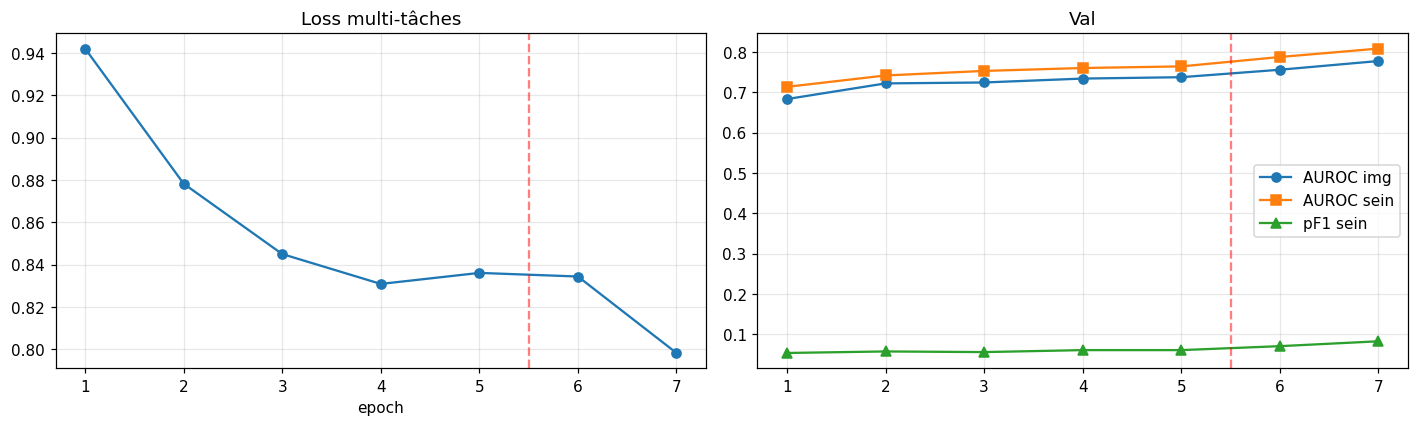
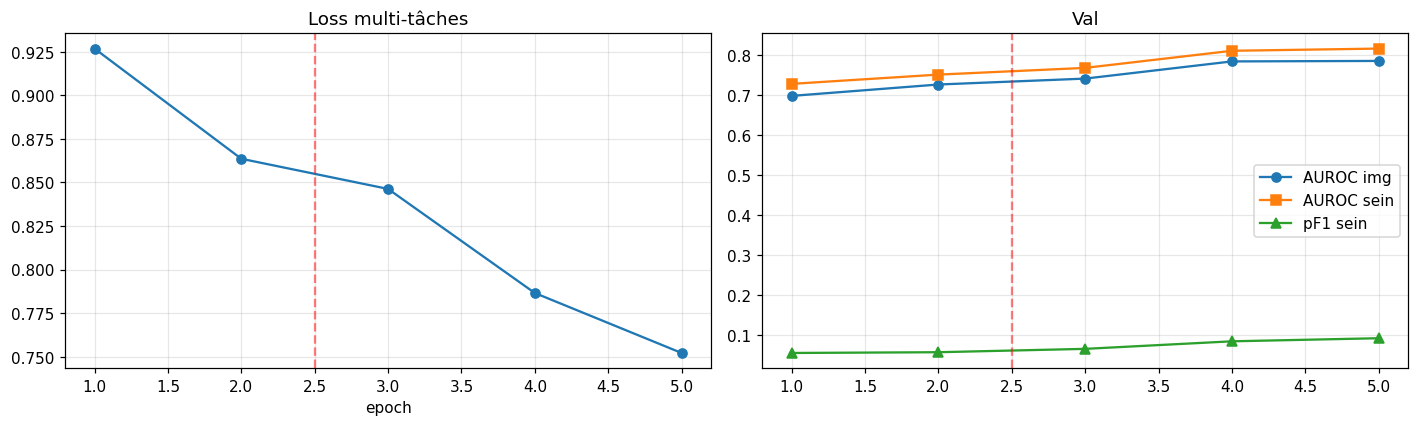
v6 auroc 0.880

diff --git a/README.md b/README.md
@@ -14,9 +14,9 @@ averaged, matching the RSNA target granularity). The split is **patient-wise** (
 
 | Metric | Value |
 |---|---|
-| **AUROC (breast level)** | **0.861** |
-| AUROC (image level) | 0.828 |
-| F1 (optimal threshold, breast level) | 0.30 |
+| **AUROC (breast level)** | **0.880** |
+| AUROC (image level) | 0.847 |
+| F1 (optimal threshold, breast level) | 0.36 |
 
 <p align="center">
   <img src="docs/images/training_curves.png" width="80%" alt="Training curves: loss and validation AUROC / pF1"><br>